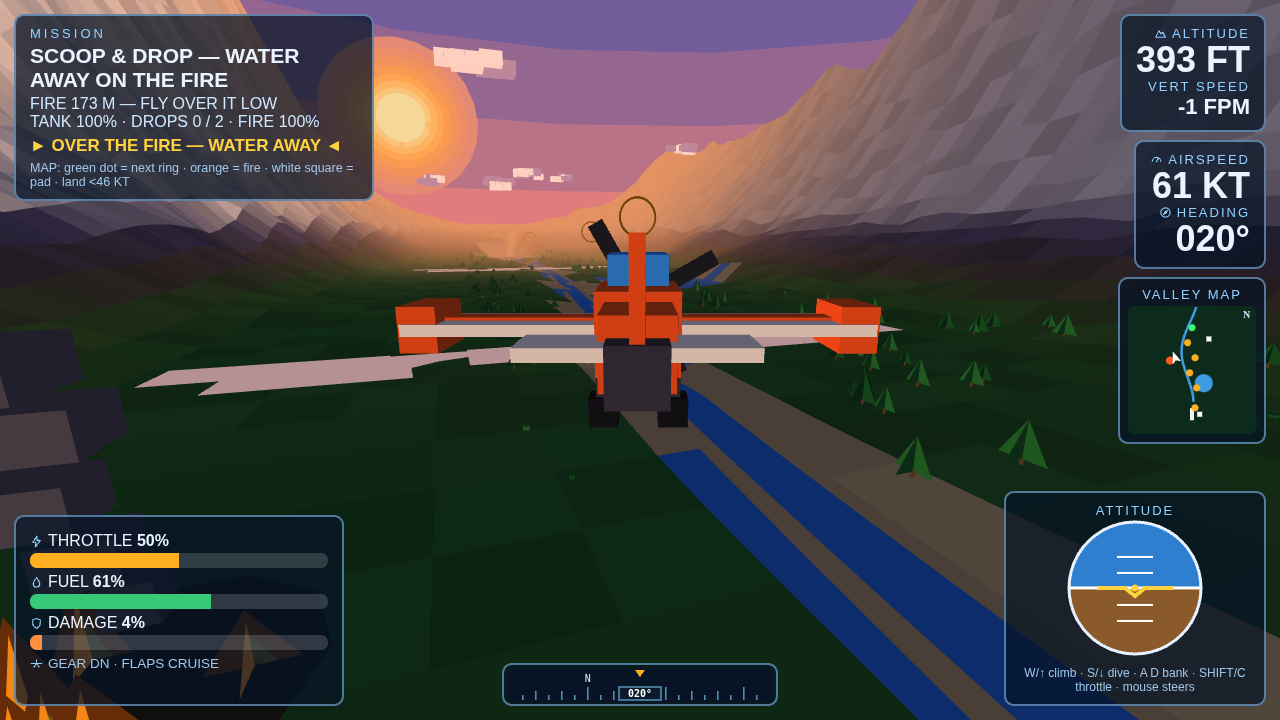
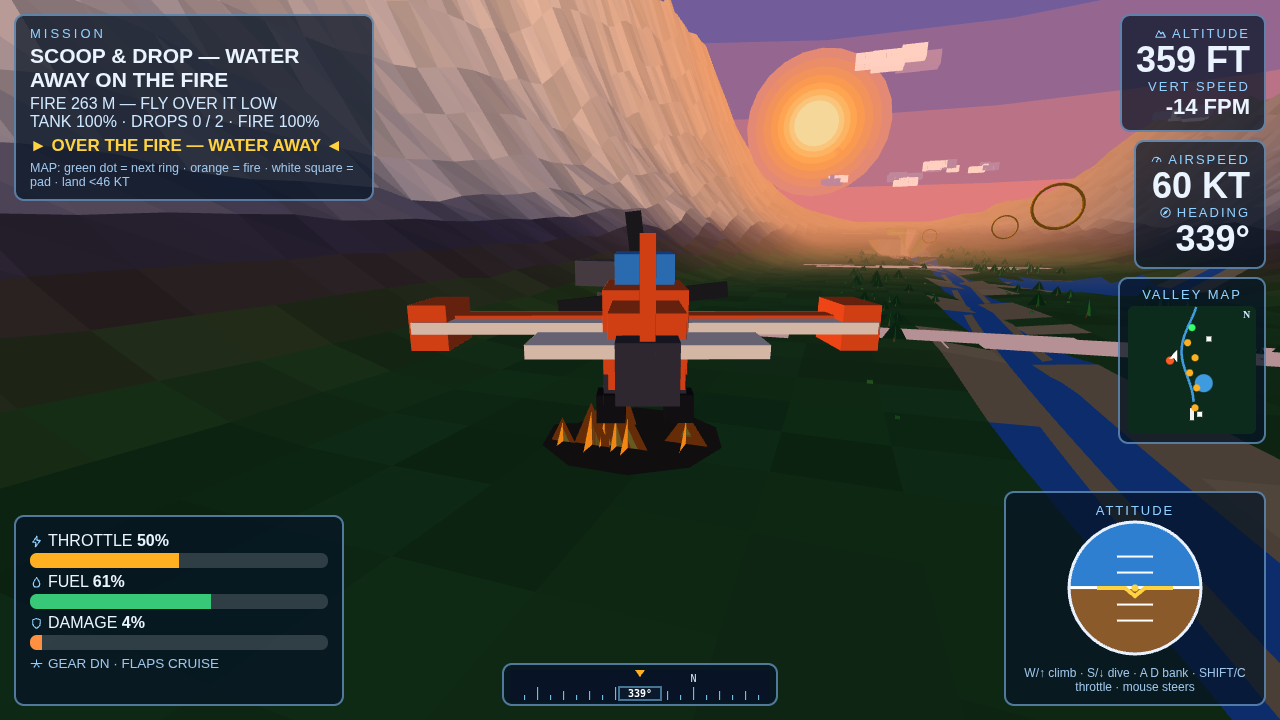
v3: screenshot set rebuilt for the final round — the title screen is replaced by a medevac turning final (patient aboard, clock 2:22, hospital pad ahead), the fire run-in is reposed head-on so the flames and smoke sit dead ahead instead of clipped at the frame edge, both medevac pads gain the standa

diff --git a/game/main.js b/game/main.js
@@ -192,14 +192,25 @@ function applyPreset(name){
     Camera.setDist(22); // posed wide for the screenshot: the plane reads
     // smaller against the valley than in the v1 frame (presets are posing
     // only; a real sortie always starts at the default chase distance)
-    plane.pos=[-350,120,-2350]; plane.heading=0.35; plane.pitch=-0.03; plane.speed=58; plane.throttle=0.5;
+    // v3: the run-in starts south-east of the fire with the nose pointed at
+    // it (heading -0.36 from (-322,-2272) bears on the fire at (-430,-2550),
+    // ~300 m out), so the flame cones and smoke column sit dead ahead in the
+    // frame instead of clipped at its left edge as in the v2 shot.
+    plane.pos=[-322,110,-2272]; plane.heading=-0.36; plane.pitch=-0.04; plane.speed=58; plane.throttle=0.5;
     Fuel.set(61); Damage.set(4); screen='fly'; }
   else if (name==='medevac'){ Missions.select('medevac'); Missions.state.stage='deliver'; Missions.state.patient=true;
     Missions.state.timeLeft=142;
-    // v2: on short final, offset west of the pad centreline so the hospital
-    // pad and its white cross show beside the plane, not hidden behind it.
-    plane.pos=[122,50,-5338]; plane.heading=0.10; plane.pitch=-0.10; plane.speed=42; plane.throttle=0.3;
-    plane.roll=0.38; // banked onto final: the tilt uncovers the pad beside the fuselage
+    // v3: the v2 pose sat 60 m out at the default chase distance, so the
+    // plane filled the frame and the pad never read; a long shallow final
+    // foreshortens the flat disc into a sliver. Pose a steep turning
+    // final instead: ~130 m out, banked toward the pad, high enough that
+    // the disc opens into an ellipse and the white circle + cross read
+    // below the airframe. The shot recipe steps 0 ticks — the medevac
+    // clock is derived from ticks flown, so stepping would reset the
+    // posed 2:22 back to a full 5:00.
+    Camera.setDist(24);
+    plane.pos=[190,92,-5295]; plane.heading=-0.365; plane.pitch=-0.12; plane.speed=44; plane.throttle=0.3;
+    plane.roll=0.35; // banked onto final: the tilt uncovers the pad beside the fuselage
     Fuel.set(47); Damage.set(12); screen='fly'; }
   Camera.reset(plane.pos); showScreen();
 }

diff --git a/game/terrain.js b/game/terrain.js
@@ -191,6 +191,13 @@ const Terrain = (() => {
       const gy=heightAt(cx,cz), SEG2=20;
       for(let i=0;i<SEG2;i++){ const a1=i/SEG2*Math.PI*2, a2=(i+1)/SEG2*Math.PI*2;
         b.tri([cx,gy+0.3,cz],[cx+Math.cos(a1)*40,gy+0.3,cz+Math.sin(a1)*40],[cx+Math.cos(a2)*40,gy+0.3,cz+Math.sin(a2)*40],[0.13,0.14,0.17]); }
+      // v3: a white rim ring on the disc's edge, the standard helipad
+      // circle marking — the dark disc alone melts into the valley green
+      // at chase distance, and the ring is what lets the pad read as a
+      // target in a screenshot instead of a stray cross arm.
+      for(let i=0;i<SEG2;i++){ const a1=i/SEG2*Math.PI*2, a2=(i+1)/SEG2*Math.PI*2;
+        b.quad([cx+Math.cos(a1)*35.5,gy+0.38,cz+Math.sin(a1)*35.5],[cx+Math.cos(a2)*35.5,gy+0.38,cz+Math.sin(a2)*35.5],
+               [cx+Math.cos(a2)*40,gy+0.38,cz+Math.sin(a2)*40],[cx+Math.cos(a1)*40,gy+0.38,cz+Math.sin(a1)*40],[0.95,0.95,0.92]); }
       b.quad([cx-4.5,gy+0.45,cz-20],[cx-4.5,gy+0.45,cz+20],[cx+4.5,gy+0.45,cz+20],[cx+4.5,gy+0.45,cz-20],[0.95,0.95,0.92]);
       b.quad([cx-20,gy+0.45,cz-4.5],[cx-20,gy+0.45,cz+4.5],[cx+20,gy+0.45,cz+4.5],[cx+20,gy+0.45,cz-4.5],[0.95,0.95,0.92]);
       for(const [ox,oz] of [[-36,-36],[36,-36],[-36,36],[36,36]]) b.box(cx+ox,gy+1.2,cz+oz,2.6,2.6,2.6,[1.0,0.80,0.30]);

diff --git a/main.ts b/main.ts
@@ -28,7 +28,7 @@ const out = process.env.MAKEFUN_OUTPUT_DIR ?? '/output';
 // each one no larger than the 256 KiB the gate allows. The game folder must
 // stay a plain static site: at most 993 files, every path short enough for the
 // intake, and an index.html at its root that the browser opens directly.
-const SHOT_NAMES = ['1-cover.png', '2-title.png', '3-fire.png', '4-results.png'];
+const SHOT_NAMES = ['1-cover.png', '2-medevac.png', '3-fire.png', '4-results.png'];
 const SHOT_MAX_BYTES = 262144;
 const GAME_MAX_FILES = 993;
 
